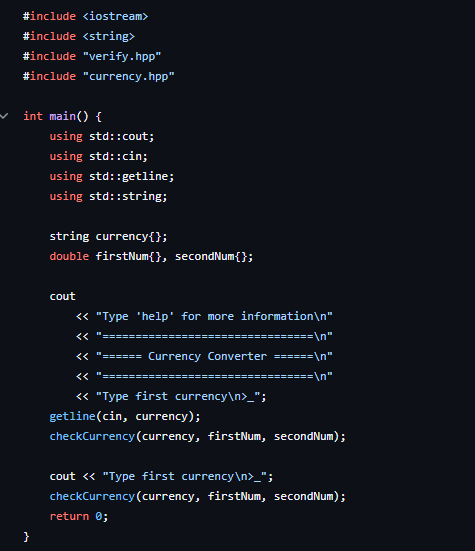
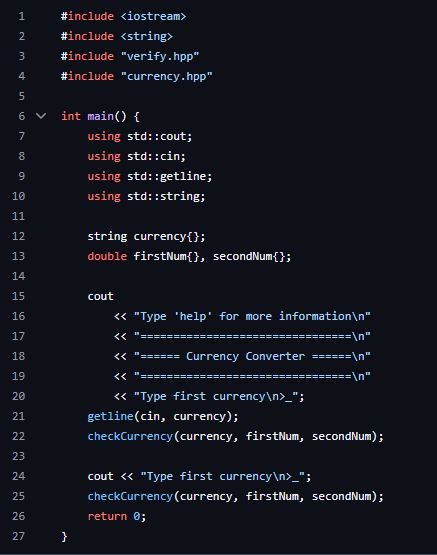
add image

diff --git a/github/currency-converter.html b/github/currency-converter.html
@@ -40,8 +40,8 @@
                 </a>
 
                 <h1 class="font-bold m-3">Examples</h1>
-                <p><u>Raw Memory</u></p>
-                <img src="https://github.com/swft-dev/swft-dev.github.io/blob/main/images/example-cpp01.png?raw=true" alt="Example C++ Code" class="rounded-lg shadow shadow-black w-75 h-75">
+                <p><u>Home screen</u></p>
+                <img src="https://github.com/swft-dev/swft-dev.github.io/blob/main/images/example-cc01.png?raw=true" alt="Example C++ Code" class="rounded-lg shadow shadow-black w-75 h-75">
                 <p><u>Mini Interpreter</u></p>
                 <img src="https://github.com/swft-dev/swft-dev.github.io/blob/main/images/example-cpp02.png?raw=true" alt="Example C++ Code" class="rounded-lg shadow shadow-black w-75 h-75">
             </section>     
